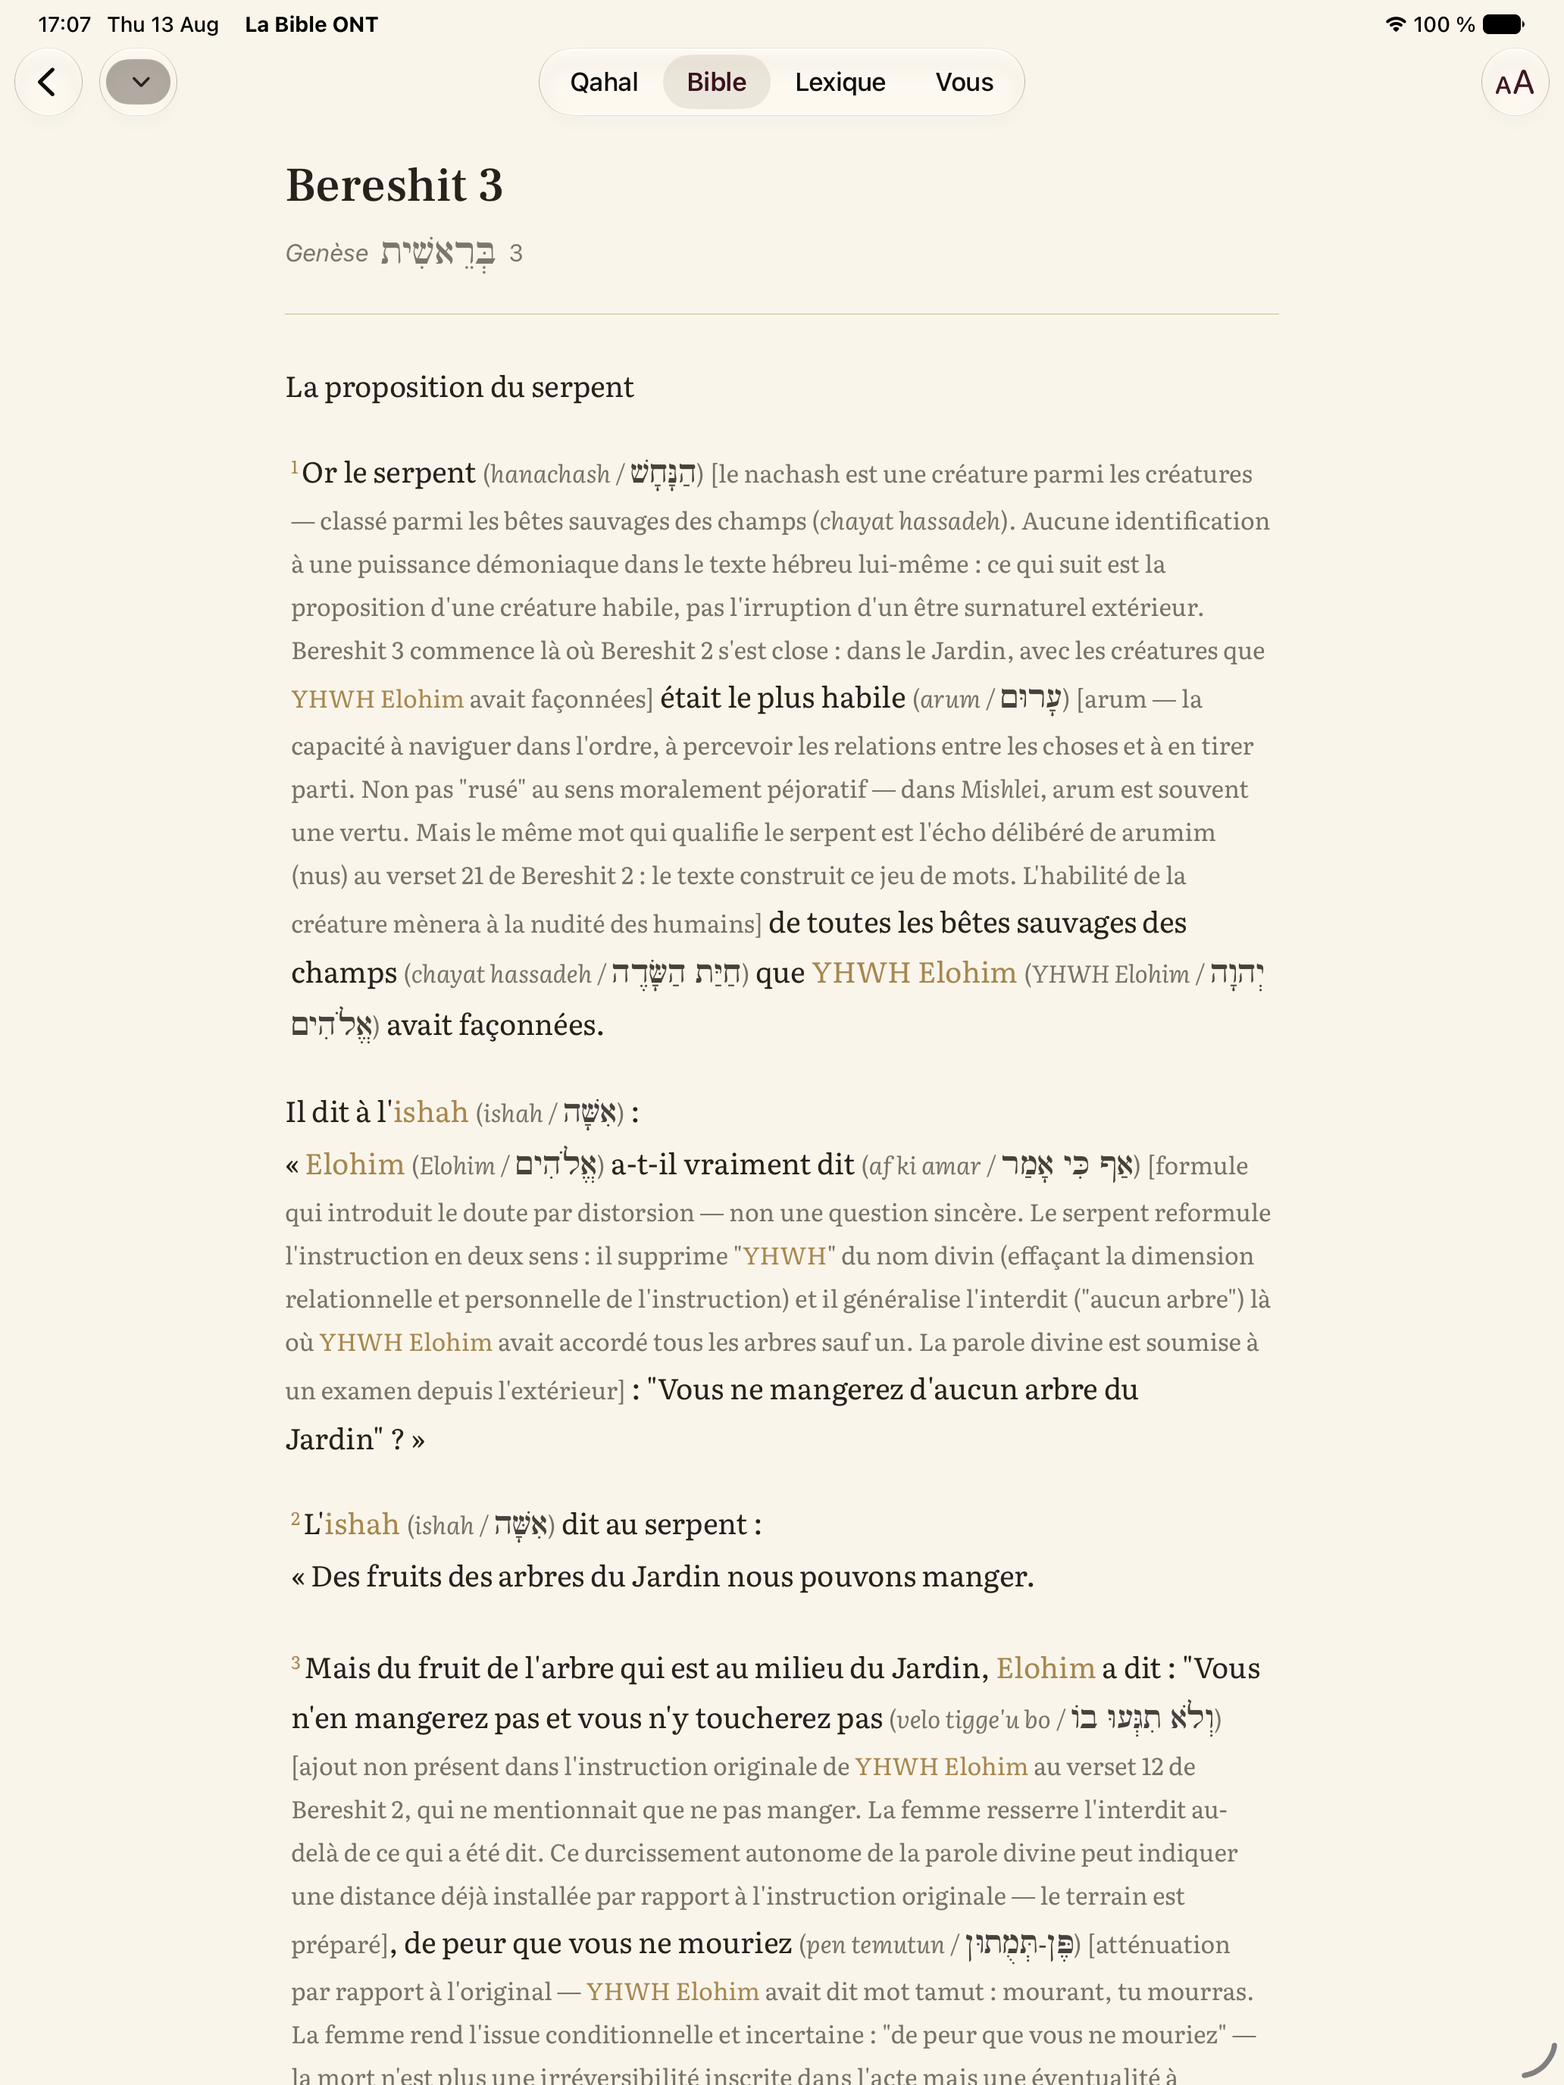
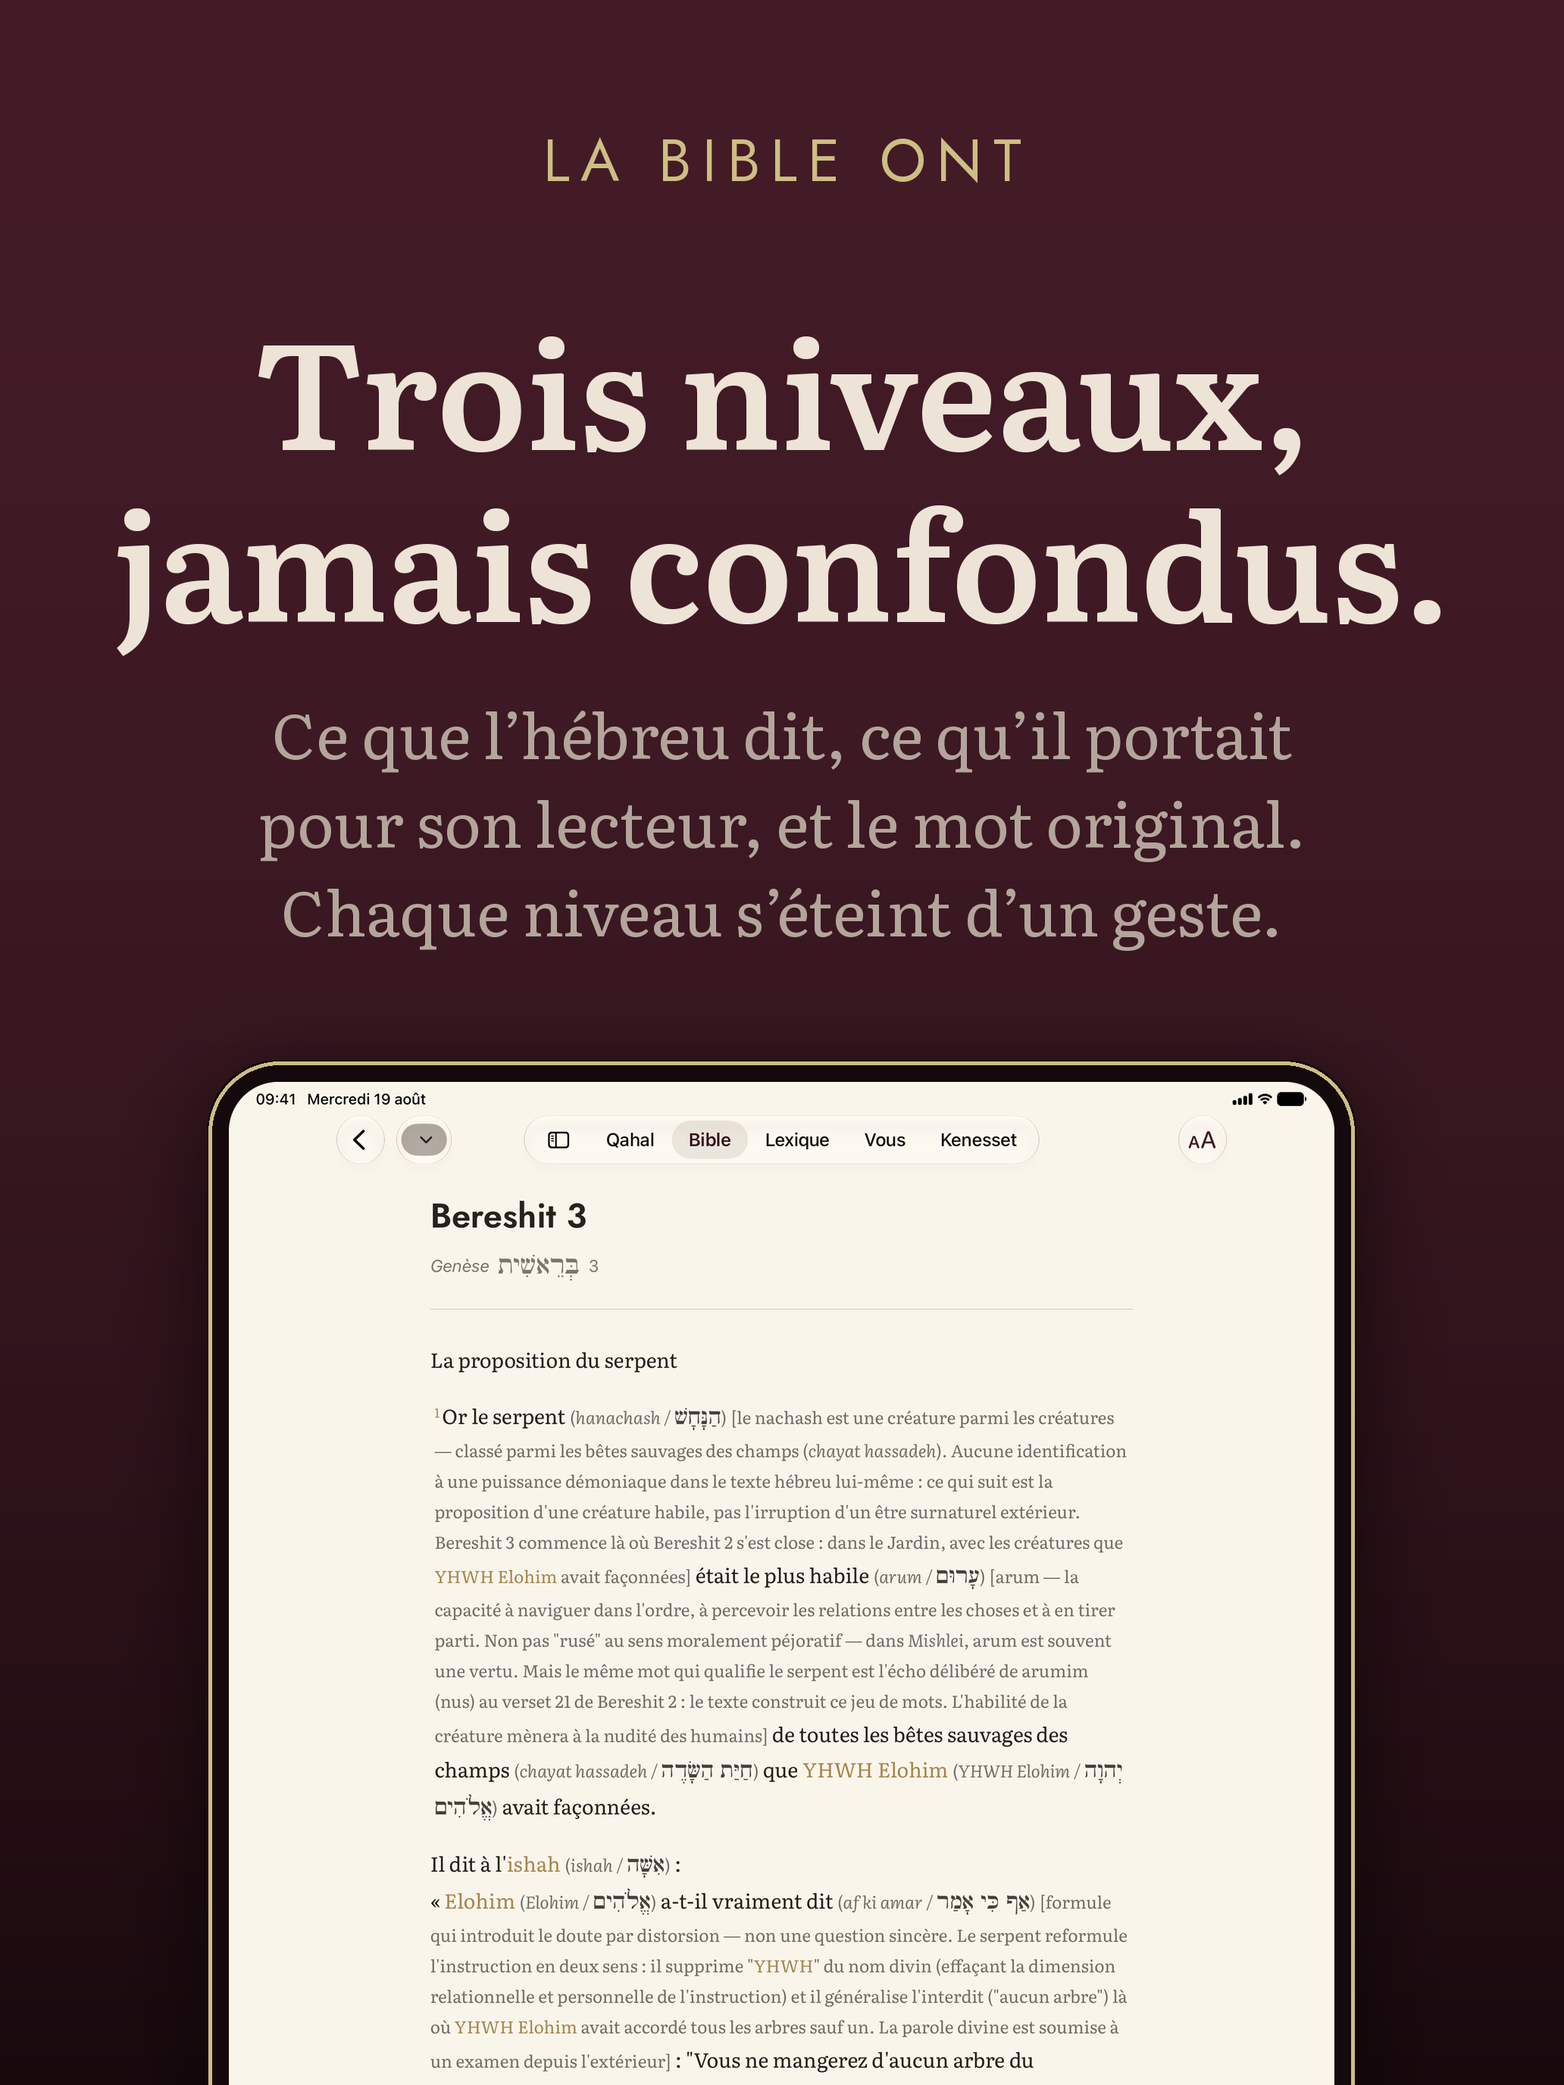
Composer les captures en affiches, au lieu de livrer l'écran nu
Le lien de l'app partagé dans iMessage donnait une carte où rien ne se
voyait : la capture n°1 y arrive telle quelle, et c'était la liste du
corpus sur un iPad — plus de la moitié de parchemin vide, du texte
d'interface illisible à cette taille.

Le détail qui décide, et qu'on ne devine pas : Apple échantillonne la
couleur de fond de la capture n°1 et la publie dans le JSON de la fiche
(`backgroundColor`). iMessage en teinte la bulle entière. Le parchemin
donnait donc une carte blafarde ; le fond de nuit assombrit toute la
carte, comme chez YouVersion.

`vitrine.py` compose les huit affiches — marque, accroche, phrase,
appareil cerclé d'or qui déborde par le bas. Les textes sont ceux de la
description de la fiche, mot pour mot : les réécrire ici, c'est se
garantir deux versions qui divergeront. Le corps du titre est déduit du
texte et de la largeur, parce qu'un corps fixe touchait les deux bords
sur la moitié des affiches.

Trois pannes réparées au passage dans `captures.sh` :

  - il appelait encore `npm run app`, remplacé par `corpus.sh` le 14
    août. Le script ne tournait plus depuis, et les captures en vitrine
    dataient du 13 — elles ont survécu à deux refontes de la mise en
    page iPad ;
  - l'identifiant du type de simulateur était écrit en dur, et
    `iPad-Pro-13-inch-M5` est devenu `…-M5-12GB` du jour où Apple a
    décliné l'iPad par quantité de mémoire. Le script ne protégeait que
    les runtimes contre les changements de Xcode ; il résout désormais
[…]

diff --git a/scripts/vitrine.py b/scripts/vitrine.py
@@ -1,0 +1,268 @@
+#!/usr/bin/env python3
+
+"""Les captures brutes deviennent des affiches.
+
+    ./scripts/vitrine.py
+
+## Pourquoi une affiche et pas la capture
+
+Une capture d'écran nue rend deux services à personne. Dans la fiche de l'App
+Store elle arrive en vignette, où l'interface n'est plus lisible ; et dans un
+lien partagé, iMessage la reprend telle quelle et fabrique une carte où rien
+ne se voit — c'est le défaut relevé le 19 août 2026 sur le lien de l'app.
+
+Le détail qui décide, et qu'on ne devine pas : Apple **échantillonne la
+couleur de fond de la capture n°1** et la sert dans le JSON de la fiche
+(`backgroundColor`). iMessage en teinte toute la bulle. Une première capture
+sur parchemin donnait donc une carte blafarde. Le fond de nuit ne rend pas
+seulement l'affiche lisible, il assombrit la carte entière.
+
+## La disposition
+
+Celle de toutes les fiches qui tiennent : marque, accroche, phrase, appareil
+qui déborde par le bas. Les quatre écrans reprennent, mot pour mot, la
+description de la fiche — on n'écrit pas une deuxième fois ce qui est déjà
+écrit, sinon les deux divergent.
+
+## Ce dont ça dépend
+
+Les polices du dépôt, `app/Resources/Fonts` — pas celles de la machine. Une
+affiche qui se compose ici et pas dans la CI n'est pas reproductible.
+"""
+
+import sys
+from pathlib import Path
+
+from PIL import Image, ImageDraw, ImageFilter, ImageFont
+
+RACINE = Path(__file__).resolve().parent.parent
+POLICES = RACINE / "app/Resources/Fonts"
+CAPTURES = RACINE / "app/Captures"
+
+# La palette, relevée sur `ONTColors.swift`. Le bordeaux et l'or viennent du
+# logo ; la nuit est le fond de `ontbible.com`. Aucune teinte inventée ici.
+NUIT = (0x18, 0x09, 0x0D)
+BORDEAUX = (0x42, 0x1B, 0x26)
+OR = (0xCD, 0xBE, 0x83)
+ENCRE_VIVE = (0xED, 0xE3, 0xD6)
+ENCRE_DOUCE = (0xB3, 0xA5, 0x9B)
+
+# Les quatre écrans, dans l'ordre de `captures.sh`. Les coupures de ligne du
+# titre sont écrites à la main : une coupure automatique place le verbe seul
+# sur la dernière ligne une fois sur deux.
+AFFICHES = [
+    (
+        ["Le cosmos hébreu", "n’est pas une usine.", "C’est un Temple."],
+        "Une restitution française du corpus hébreu et araméen "
+        "antique, fondée sur l’ontologie hébraïque fonctionnelle.",
+    ),
+    (
+        ["Trois niveaux,", "jamais confondus."],
+        "Ce que l’hébreu dit, ce qu’il portait pour son lecteur, "
+        "et le mot original. Chaque niveau s’éteint d’un geste.",
+    ),
+    (
+        ["Les intraduisibles", "restent debout."],
+        "Elohim, neshamah, kavod, ruach. Les rendre coûterait ce "
+        "qu’ils portent : chacun a sa fiche.",
+    ),
+    (
+        ["Un chantier", "ouvert."],
+        "Trois livres sur soixante-dix. Le compte est public, et "
+        "il est tenu par le corpus lui-même.",
+    ),
+]
+
+
+def police(nom, taille):
+    return ImageFont.truetype(str(POLICES / nom), taille)
+
+
+def fond(largeur, hauteur):
+    """Le dégradé bordeaux → nuit, du haut vers le bas.
+
+    Peint ligne à ligne sur une image d'un pixel de large, puis étiré : un
+    dégradé calculé pour chaque pixel de la largeur coûte deux secondes par
+    affiche et rend exactement la même chose.
+    """
+    colonne = Image.new("RGB", (1, hauteur))
+    dessin = ImageDraw.Draw(colonne)
+    for y in range(hauteur):
+        t = y / (hauteur - 1)
+        # Une progression au carré : le bordeaux tient le haut, où se pose le
+        # texte, et la nuit prend le bas, où l'appareil se détache.
+        t = t * t
+        dessin.point((0, y), tuple(round(a + (b - a) * t) for a, b in zip(BORDEAUX, NUIT)))
+    return colonne.resize((largeur, hauteur), Image.BICUBIC)
+
+
+def tracer(dessin, xy, texte, fonte, couleur, interlettre):
+    """Un texte à interlettrage — PIL ne sait pas l'espacer tout seul."""
+    x, y = xy
+    for caractere in texte:
+        dessin.text((x, y), caractere, font=fonte, fill=couleur)
+        x += dessin.textlength(caractere, font=fonte) + interlettre
+    return x - interlettre - xy[0]
+
+
+def largeur_suivie(dessin, texte, fonte, interlettre):
+    return sum(dessin.textlength(c, font=fonte) for c in texte) + interlettre * (len(texte) - 1)
+
+
+def ajuster(dessin, lignes, nom_police, corps_max, largeur_max):
+    """Le plus grand corps où la ligne la plus longue tient dans la largeur.
+
+    Écrit ainsi et non réglé une fois pour toutes : « Les intraduisibles » et
+    « Un chantier » n'ont pas la même longueur, l'iPhone et l'iPad n'ont pas la
+    même largeur, et un corps unique donnait un titre qui touchait les deux
+    bords sur la moitié des affiches. Le corps est une conséquence du texte.
+    """
+    corps = corps_max
+    while corps > 8:
+        fonte = police(nom_police, corps)
+        if max(dessin.textlength(l, font=fonte) for l in lignes) <= largeur_max:
+            return fonte, corps
+        corps -= 1
+    return police(nom_police, corps), corps
+
+
+def couper(dessin, texte, fonte, largeur_max):
+    lignes, courante = [], ""
+    for mot in texte.split():
+        essai = f"{courante} {mot}".strip()
+        if dessin.textlength(essai, font=fonte) <= largeur_max or not courante:
+            courante = essai
+        else:
+            lignes.append(courante)
+            courante = mot
+    return lignes + [courante]
+
+
+COQUE = (0x14, 0x09, 0x0C)
+
+
+def arrondi(taille, rayon, remplissage):
+    """Un rectangle arrondi, tracé au quadruple puis réduit.
+
+    Un arrondi tracé à la taille finale sort en escalier, et l'escalier se voit
+    sur un fond sombre.
+    """
+    n = 4
+    largeur, hauteur = taille
+    masque = Image.new("L", (largeur * n, hauteur * n), 0)
+    ImageDraw.Draw(masque).rounded_rectangle(
+        (0, 0, largeur * n - 1, hauteur * n - 1), radius=rayon * n, fill=255
+    )
+    masque = masque.resize(taille, Image.LANCZOS)
+    plaque = Image.new("RGBA", taille, remplissage + (0,))
+    plaque.putalpha(masque)
+    return plaque, masque
+
+
+def appareil(capture, largeur_cible):
+    """La capture encastrée dans une coque sombre cerclée d'or.
+
+    L'écran n'est pas arrondi directement. Il l'a été, et le coin mangeait la
+    barre d'état : sur une capture, l'heure touche le bord haut, là où un vrai
+    appareil garde une lunette. On redonne cette lunette — c'est aussi ce qui
+    empêche l'écran clair de flotter comme un rectangle découpé sur la nuit.
+    """
+    lunette = max(2, round(largeur_cible * 0.019))
+    largeur_ecran = largeur_cible - lunette * 2
+    hauteur_ecran = round(largeur_ecran * capture.height / capture.width)
+    hauteur_cible = hauteur_ecran + lunette * 2
+
+    rayon = round(largeur_cible * 0.062)
+    vignette, _ = arrondi((largeur_cible, hauteur_cible), rayon, COQUE)
+
+    ecran = capture.convert("RGB").resize((largeur_ecran, hauteur_ecran), Image.LANCZOS)
+    _, masque_ecran = arrondi((largeur_ecran, hauteur_ecran), max(1, rayon - lunette), (0, 0, 0))
+    vignette.paste(ecran, (lunette, lunette), masque_ecran)
+
+    trait = max(1, round(largeur_cible * 0.0035))
+    ImageDraw.Draw(vignette).rounded_rectangle(
+        (trait / 2, trait / 2, largeur_cible - trait / 2 - 1, hauteur_cible - trait / 2 - 1),
+        radius=rayon,
+        outline=OR + (255,),
+        width=trait,
+    )
+    return vignette
+
+
+def ombre(taille_vignette, flou, decalage):
+    marge = flou * 3
+    largeur, hauteur = taille_vignette
+    plaque = Image.new("RGBA", (largeur + marge * 2, hauteur + marge * 2), (0, 0, 0, 0))
+    ImageDraw.Draw(plaque).rounded_rectangle(
+        (marge, marge + decalage, marge + largeur, marge + hauteur + decalage),
+        radius=round(largeur * 0.062),
+        fill=(0, 0, 0, 150),
+    )
+    return plaque.filter(ImageFilter.GaussianBlur(flou)), marge
+
+
+def affiche(chemin_capture, titre, phrase):
+    capture = Image.open(chemin_capture)
+    L, H = capture.size
+
+    toile = fond(L, H).convert("RGBA")
+    dessin = ImageDraw.Draw(toile)
+
+    # Tout se mesure sur la largeur, jamais sur la hauteur : l'iPhone et
+    # l'iPad n'ont pas la même proportion, et un corps de texte réglé sur la
+    # hauteur sortirait deux fois plus gros sur l'un que sur l'autre.
+    marge = round(L * 0.075)
+    f_marque = police("Jost-Regular.ttf", round(L * 0.038))
+    f_titre, corps_titre = ajuster(
+        dessin, titre, "Literata-SemiBold.ttf", round(L * 0.103), L * 0.86
+    )
+    f_phrase = police("Literata-Regular.ttf", round(L * 0.040))
+    interlettre = round(L * 0.038 * 0.18)
+
+    y = marge
+
+    marque = "LA BIBLE ONT"
+    largeur_marque = largeur_suivie(dessin, marque, f_marque, interlettre)
+    tracer(dessin, ((L - largeur_marque) / 2, y), marque, f_marque, OR, interlettre)
+    y += round(L * 0.038 * 1.2) + round(L * 0.055)
+
+    hauteur_ligne = round(corps_titre * 1.16)
+    for ligne in titre:
+        dessin.text((L / 2, y), ligne, font=f_titre, fill=ENCRE_VIVE, anchor="ma")
+        y += hauteur_ligne
+    y += round(L * 0.042)
+
+    # La phrase est tenue plus étroite que le titre : une ligne de soixante
+    # signes se relit, une ligne qui court sur toute la largeur non.
+    for ligne in couper(dessin, phrase, f_phrase, L * 0.74):
+        dessin.text((L / 2, y), ligne, font=f_phrase, fill=ENCRE_DOUCE, anchor="ma")
+        y += round(L * 0.040 * 1.42)
+
+    y += round(L * 0.070)
+
+    vignette = appareil(capture, round(L * 0.735))
+    x = (L - vignette.width) // 2
+    plaque, decalage_ombre = ombre(vignette.size, round(L * 0.028), round(L * 0.012))
+    toile.alpha_composite(plaque, (x - decalage_ombre, y - decalage_ombre))
+    toile.alpha_composite(vignette, (x, y))
+
+    return toile.convert("RGB")
+
+
+def main():
+    dossiers = ["iphone-6.9", "ipad-13"]
+    for dossier in dossiers:
+        source = CAPTURES / "brut" / dossier
+        if not source.is_dir():
+            sys.exit(f"manque {source} — lancer ./scripts/captures.sh d'abord")
+        cible = CAPTURES / dossier
+        cible.mkdir(parents=True, exist_ok=True)
+        for i, (titre, phrase) in enumerate(AFFICHES, start=1):
+            nom = f"{i:02d}.png"
+            image = affiche(source / nom, titre, phrase)
+            image.save(cible / nom)
+            print(f"  {cible.relative_to(RACINE)}/{nom}  {image.width}×{image.height}")
+
+
+if __name__ == "__main__":
+    main()

diff --git a/app/Captures/LISEZ-MOI.md b/app/Captures/LISEZ-MOI.md
@@ -2,14 +2,38 @@
 
 Produites par `scripts/captures.sh`, pas à la main : une capture reprise à la
 main après chaque changement visuel finit par montrer une version qui n'existe
-plus.
+plus. C'est arrivé — celles du 13 août ont survécu à deux refontes de la mise
+en page iPad, et sont restées en vitrine.
 
-| dossier | taille | exigence |
+| dossier | contenu | committé |
 |---|---|---|
-| `iphone-6.9/` | 1320 × 2868 | **obligatoire** — Apple redimensionne pour les écrans plus petits |
-| `ipad-13/` | 2064 × 2752 | **obligatoire**, l'app visant iPhone et iPad |
+| `brut/` | ce que rend le simulateur | non, régénérable |
+| `iphone-6.9/` | les affiches, 1320 × 2868 | **oui**, c'est ce qu'on téléverse |
+| `ipad-13/` | les affiches, 2064 × 2752 | **oui** |
 
-Quatre écrans, dans l'ordre où ils racontent quelque chose :
+Les deux tailles sont **obligatoires**, l'app visant iPhone et iPad ; Apple
+redimensionne pour les écrans plus petits.
+
+## Pourquoi une affiche et pas la capture
+
+Une capture nue ne sert personne. En vignette de fiche, l'interface n'est plus
+lisible ; et dans un lien partagé, iMessage la reprend telle quelle. Le lien de
+l'app donnait une carte où l'on ne distinguait rien — le défaut relevé le
+19 août 2026.
+
+Le détail qu'on ne devine pas : Apple **échantillonne la couleur de fond de la
+capture n°1** et la publie dans le JSON de la fiche (`backgroundColor`).
+iMessage en teinte la bulle entière. Une première capture sur parchemin donnait
+une carte blafarde ; le fond de nuit assombrit toute la carte.
+
+`scripts/vitrine.py` compose les affiches — marque, accroche, phrase, appareil
+cerclé d'or qui déborde par le bas. Les textes sont ceux de la description de
+la fiche, mot pour mot : les réécrire ici, c'est se garantir deux versions qui
+divergeront.
+
+## Les quatre écrans
+
+Dans l'ordre où ils racontent quelque chose :
 
 1. le corpus — les 70 livres, et ce qui en est traduit ;
 2. la lecture — les trois niveaux visibles d'un coup d'œil ;
@@ -18,3 +42,7 @@ Quatre écrans, dans l'ordre où ils racontent quelque chose :
 
 L'unité montrée est **Bereshit 3**, verrouillée. Bereshit 1 porte la mention
 « Brouillon », honnête dans l'app mais mal choisie pour une vitrine.
+
+La barre d'état est figée à 9:41, batterie pleine : sans ça elle porte l'heure
+de la machine, la date en anglais — le simulateur ne suit pas la langue de
+l'app — et une jauge à moitié vide.
